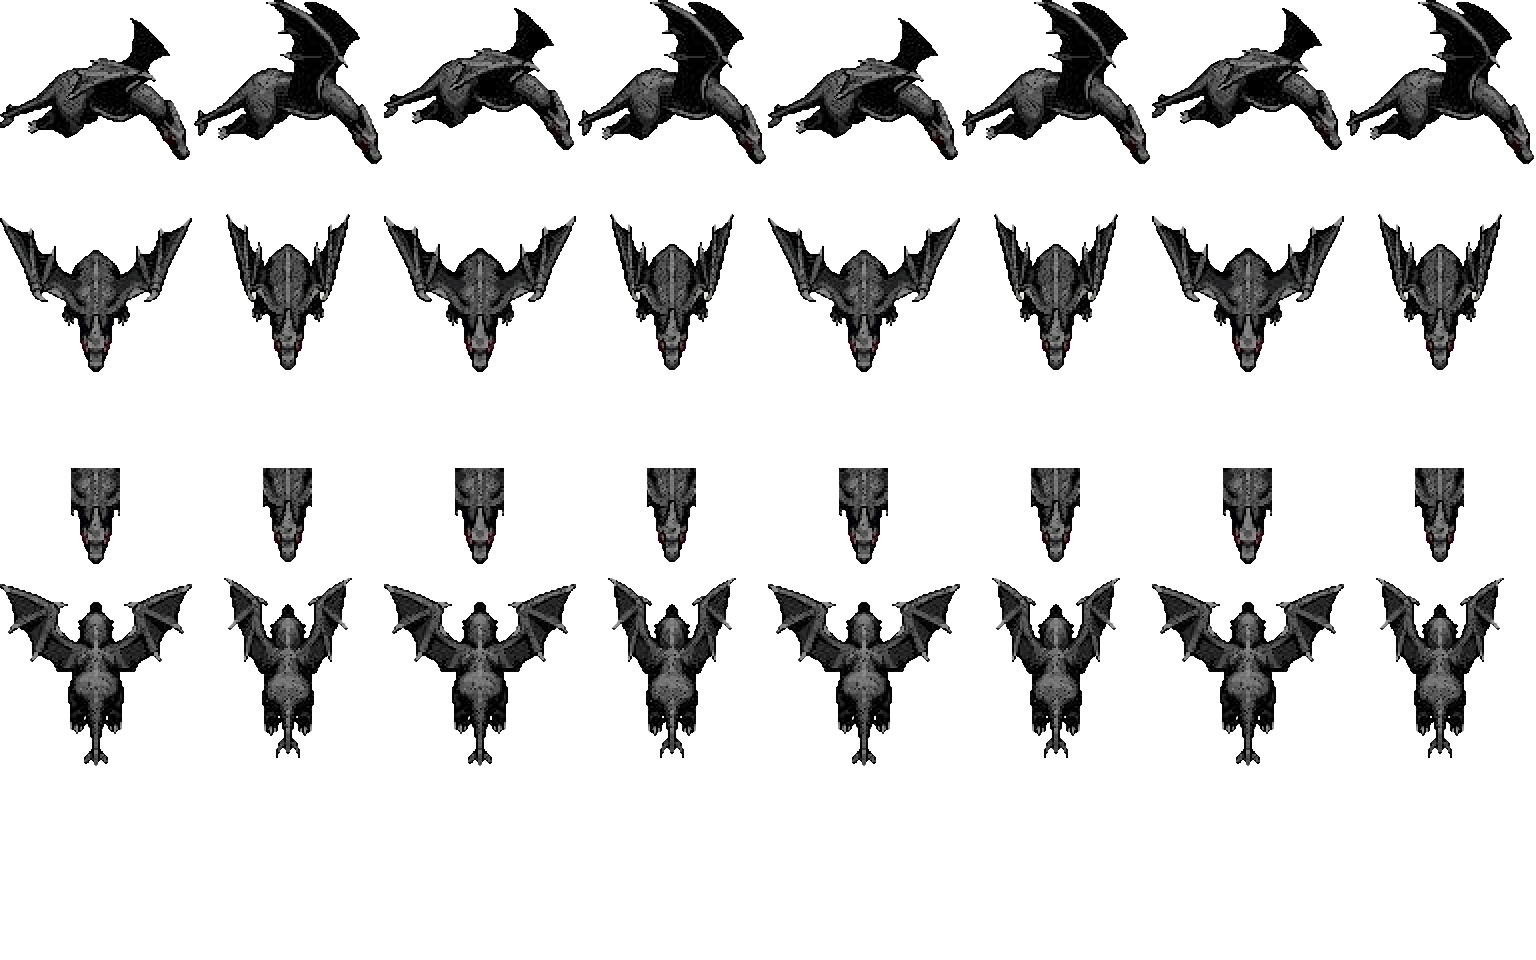
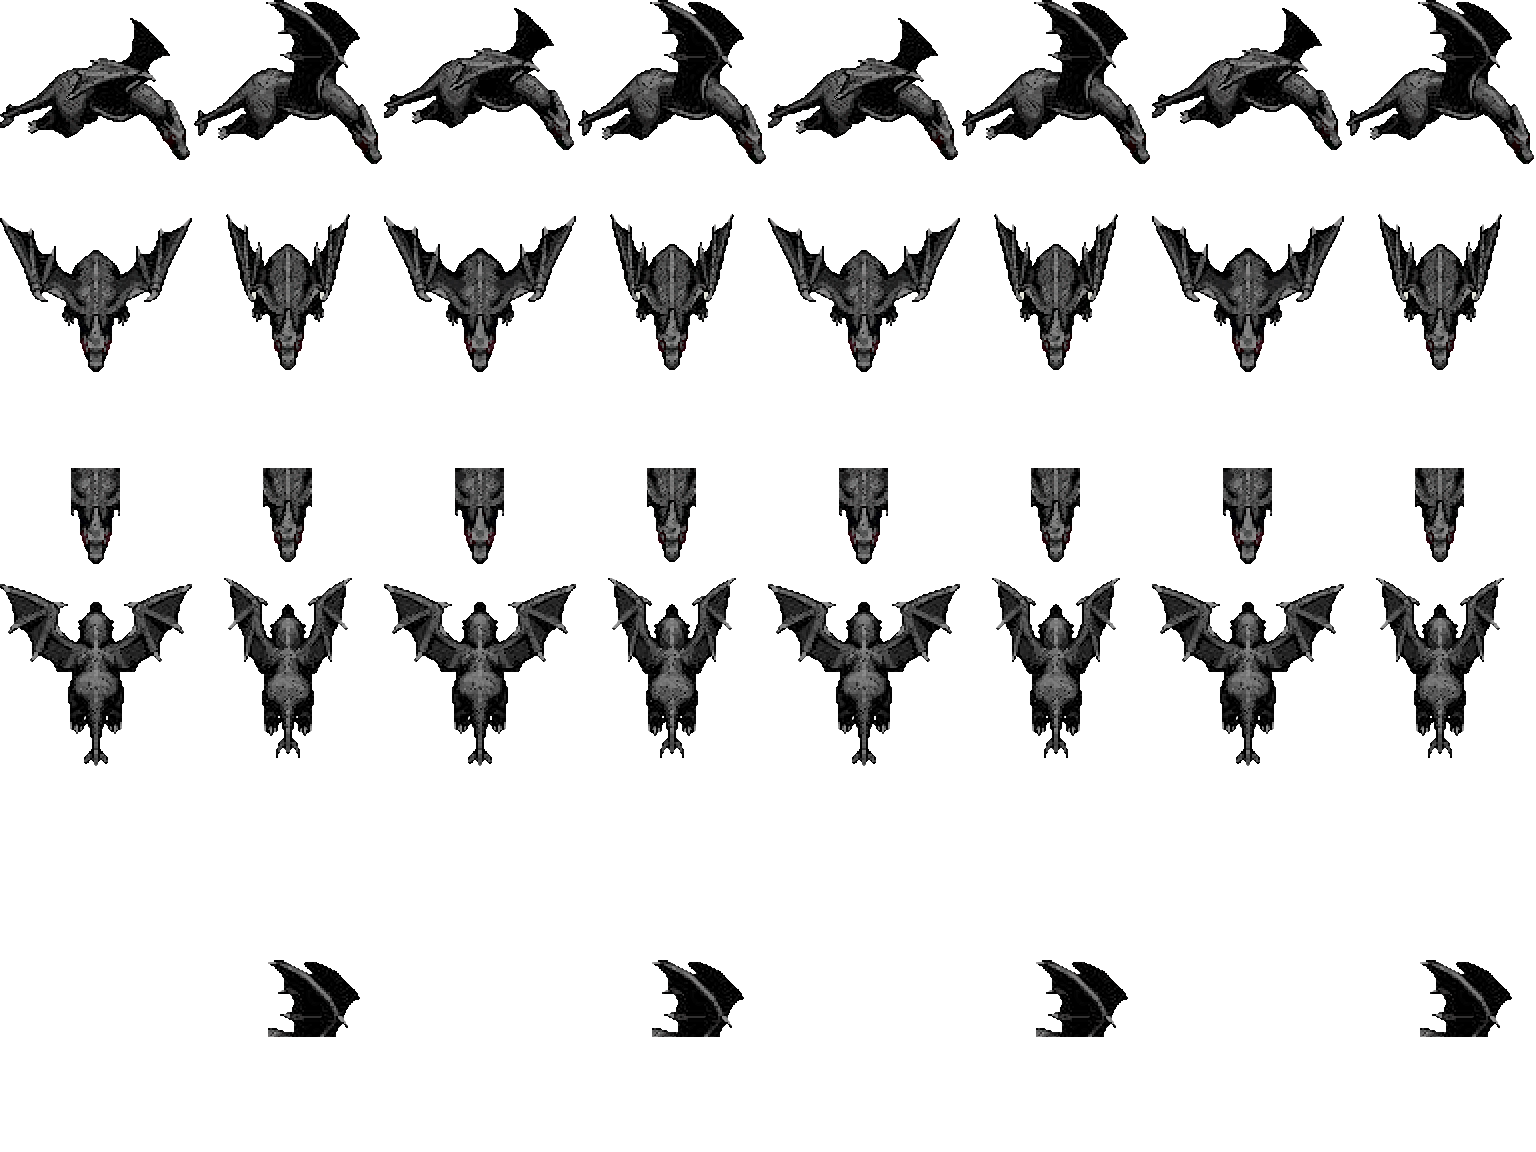
Hắc Long xem thử: cánh giơ lên che người cưỡi, cánh hạ thì lộ người
- spriteup.py: thêm hàng 6 là lớp đè khi nhìn ngang (rows.side = [0, 5]); ở khung cánh giơ cao,
  phần cánh phía trên hông người cưỡi được vẽ đè lên người
- Ảnh xem thử có thêm hàng nhìn ngang từng khung chạy kèm người cưỡi

Claude-Session: https://claude.ai/code/session_01AqWtbjMjwaw5KPYKGcCy7Z

diff --git a/tools/spriteup.py b/tools/spriteup.py
@@ -6,7 +6,7 @@ Các bước:
   1. cắt từng ô, xoá nền trắng (loang từ mép ảnh, gồm cả quầng nhiễu JPEG quanh viền), bỏ đốm lẻ
   2. lọc nhiễu màu JPEG: gom về bảng màu ~48 màu
   3. phóng x4 bằng Scale2x hai lần (giữ cạnh sắc, làm mượt đường chéo) rồi thu về cỡ hiển thị
-  4. ghép thành sheet theo khuôn thú cưỡi của game: hàng side / down / down-đè / up / up-đè,
+  4. ghép thành sheet theo khuôn thú cưỡi của game: hàng side / down / down-đè / up / up-đè / side-đè,
      kèm điểm chân, điểm yên từng khung, và lớp "đè lên người cưỡi" (đầu, cổ ở góc nhìn trước)
 """
 import json
@@ -18,12 +18,14 @@ from PIL import Image
 from scipy.ndimage import binary_dilation, label
 
 # cấu hình từng thú: ô gốc, số cột khung, hệ số phóng hiển thị, khung đứng / chạy, điểm yên (tỉ lệ trong ô, mặt quay phải),
-# lớp đè (nửa bề ngang dải giữa, từ độ cao nào), độ nổi khi bay (điểm ảnh gốc)
+# lớp đè (nửa bề ngang dải giữa, từ độ cao nào), độ nổi khi bay (điểm ảnh gốc),
+# over_side: các khung nhìn ngang có cánh đè lên người cưỡi (phần ảnh phía trên hông người cưỡi trong dải x)
 CFG = {
     'ngua_xam': dict(src_cell=72, cols=3, k=1.75, idle=[1], run=[0, 1, 2, 1], side_row=1, gain=1.0,
                      seat={'side': (0.40, 0.55), 'down': (0.5, 0.42), 'up': (0.5, 0.48)}, over_down=(0.15, 0.40), flies=0),
     'hac_long': dict(src_cell=96, cols=3, k=2.0, idle=[0, 1, 2, 1], run=[0, 1, 2, 1], side_row=1, gain=1.3,
-                     seat={'side': (0.62, 0.41), 'down': (0.5, 0.36), 'up': (0.5, 0.42)}, over_down=(0.13, 0.44), flies=14),
+                     seat={'side': (0.62, 0.41), 'down': (0.5, 0.36), 'up': (0.5, 0.42)}, over_down=(0.13, 0.44), flies=14,
+                     over_side=dict(frames=[1], x=(0.40, 0.98))),   # cánh giơ lên che người cưỡi, cánh hạ thì lộ người
 }
 
 
@@ -130,7 +132,7 @@ def build(src, mid, out):
     ncol = len(seq)
     rows_src = {'side': c['side_row'], 'down': 0, 'up': 3}
     # khung: cùng một chân đặt cố định ở đáy ô (thú bay: lơ lửng phía trên điểm chân)
-    sheet = np.zeros((T * 5, T * ncol, 4), np.uint8)
+    sheet = np.zeros((T * 6, T * ncol, 4), np.uint8)   # hàng 6: lớp đè nhìn ngang
     seats = {v: [] for v in rows_src}
     floor = {}
     for v, r in rows_src.items():
@@ -142,6 +144,12 @@ def build(src, mid, out):
             seat = (round(fx_ * T, 1), round(fy_ * T, 1))
             if v == 'side':
                 sheet[0:T, ci * T:(ci + 1) * T] = a
+                os_ = c.get('over_side')
+                if os_ and fi in os_['frames']:
+                    ov = np.zeros_like(a)
+                    xl, xr = int(os_['x'][0] * T), int(os_['x'][1] * T)
+                    ov[:int(seat[1]) - 1, xl:xr] = a[:int(seat[1]) - 1, xl:xr]
+                    sheet[5 * T:6 * T, ci * T:(ci + 1) * T] = ov
             else:
                 rowi = 1 if v == 'down' else 3
                 sheet[rowi * T:(rowi + 1) * T, ci * T:(ci + 1) * T] = a
@@ -157,7 +165,7 @@ def build(src, mid, out):
     lift = c['flies'] * k
     meta = dict(cell=[T, T], foot=[T // 2, int(floor['side'] + 2 + lift)], footFB=[T // 2, int(floor['down'] + 2 + lift)],
                 frames={'idle': [0, len(c['idle'])], 'run': [len(c['idle']), len(c['run'])]},
-                rows={'side': [0], 'down': [1, 2], 'up': [3, 4]}, seats=seats, flies=bool(c['flies']))
+                rows={'side': [0, 5] if c.get('over_side') else [0], 'down': [1, 2], 'up': [3, 4]}, seats=seats, flies=bool(c['flies']))
     mp = os.path.join(out, 'mounts.json')
     allm = json.load(open(mp)) if os.path.exists(mp) else {}
     allm[mid] = meta

diff --git a/tools/spriteup_preview.py b/tools/spriteup_preview.py
@@ -49,7 +49,7 @@ def sheet_preview(mid, src, path):
     Z = 2
     pad = 16
     W = max(ncol * T, 4 * (T + 60)) * Z + pad * 2
-    H = (T * 2 + T * 3 + (T + 70) + 120) * Z
+    H = (T * 2 + T * 3 + (T + 70) * 2 + 160) * Z
     out = Image.new('RGBA', (W, H), (52, 74, 50, 255))
     d = ImageDraw.Draw(out)
     y = 10
@@ -71,6 +71,11 @@ def sheet_preview(mid, src, path):
     run0 = m['frames']['run'][0]
     for j, (v, fl) in enumerate([('side', False), ('side', True), ('down', False), ('up', False)]):
         s = scene(mid, v, run0 + 1, fl)
+        out.alpha_composite(s.resize((s.width * Z, s.height * Z), Image.NEAREST), (pad + j * (T + 60) * Z, y))
+    y += (T + 70) * Z + 10
+    d.text((pad, y), 'nhin ngang tung khung chay (canh gio len che nguoi cuoi, canh ha thi lo nguoi)', fill=(255, 235, 190, 255)); y += 18
+    for j in range(min(4, m['frames']['run'][1])):
+        s = scene(mid, 'side', run0 + j)
         out.alpha_composite(s.resize((s.width * Z, s.height * Z), Image.NEAREST), (pad + j * (T + 60) * Z, y))
     out = out.crop((0, 0, W, y + (T + 70) * Z + 10))
     out.save(path)
